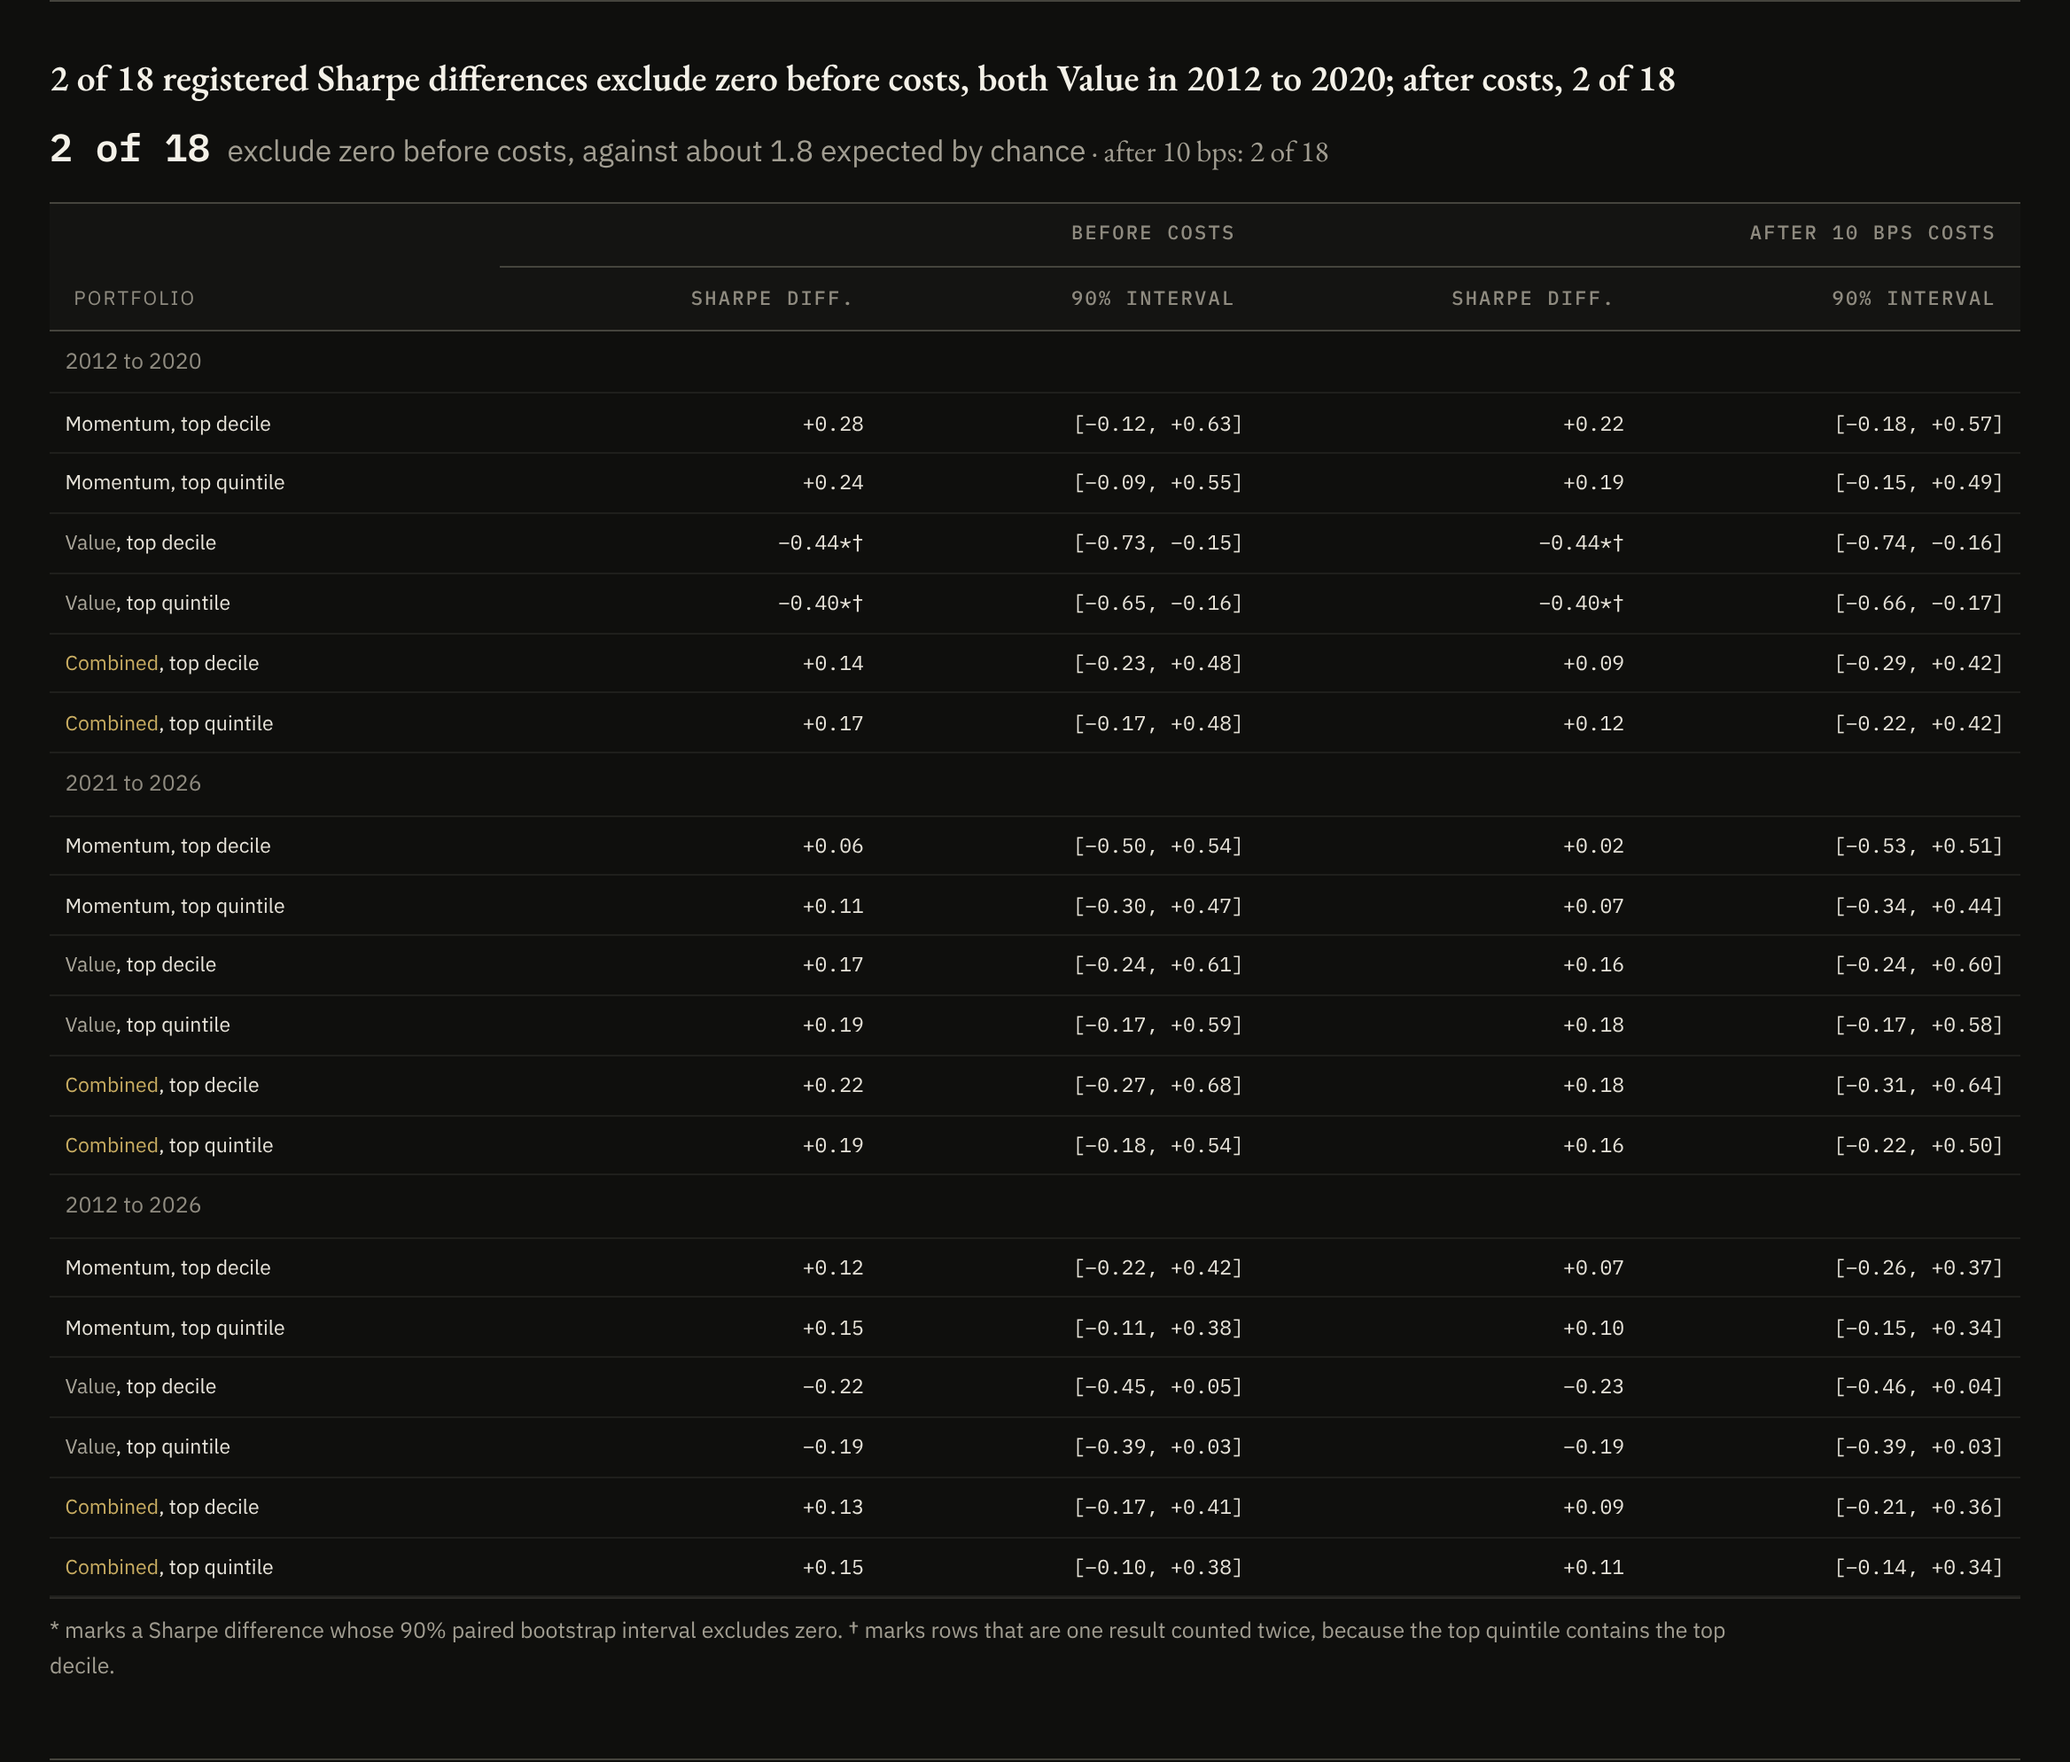
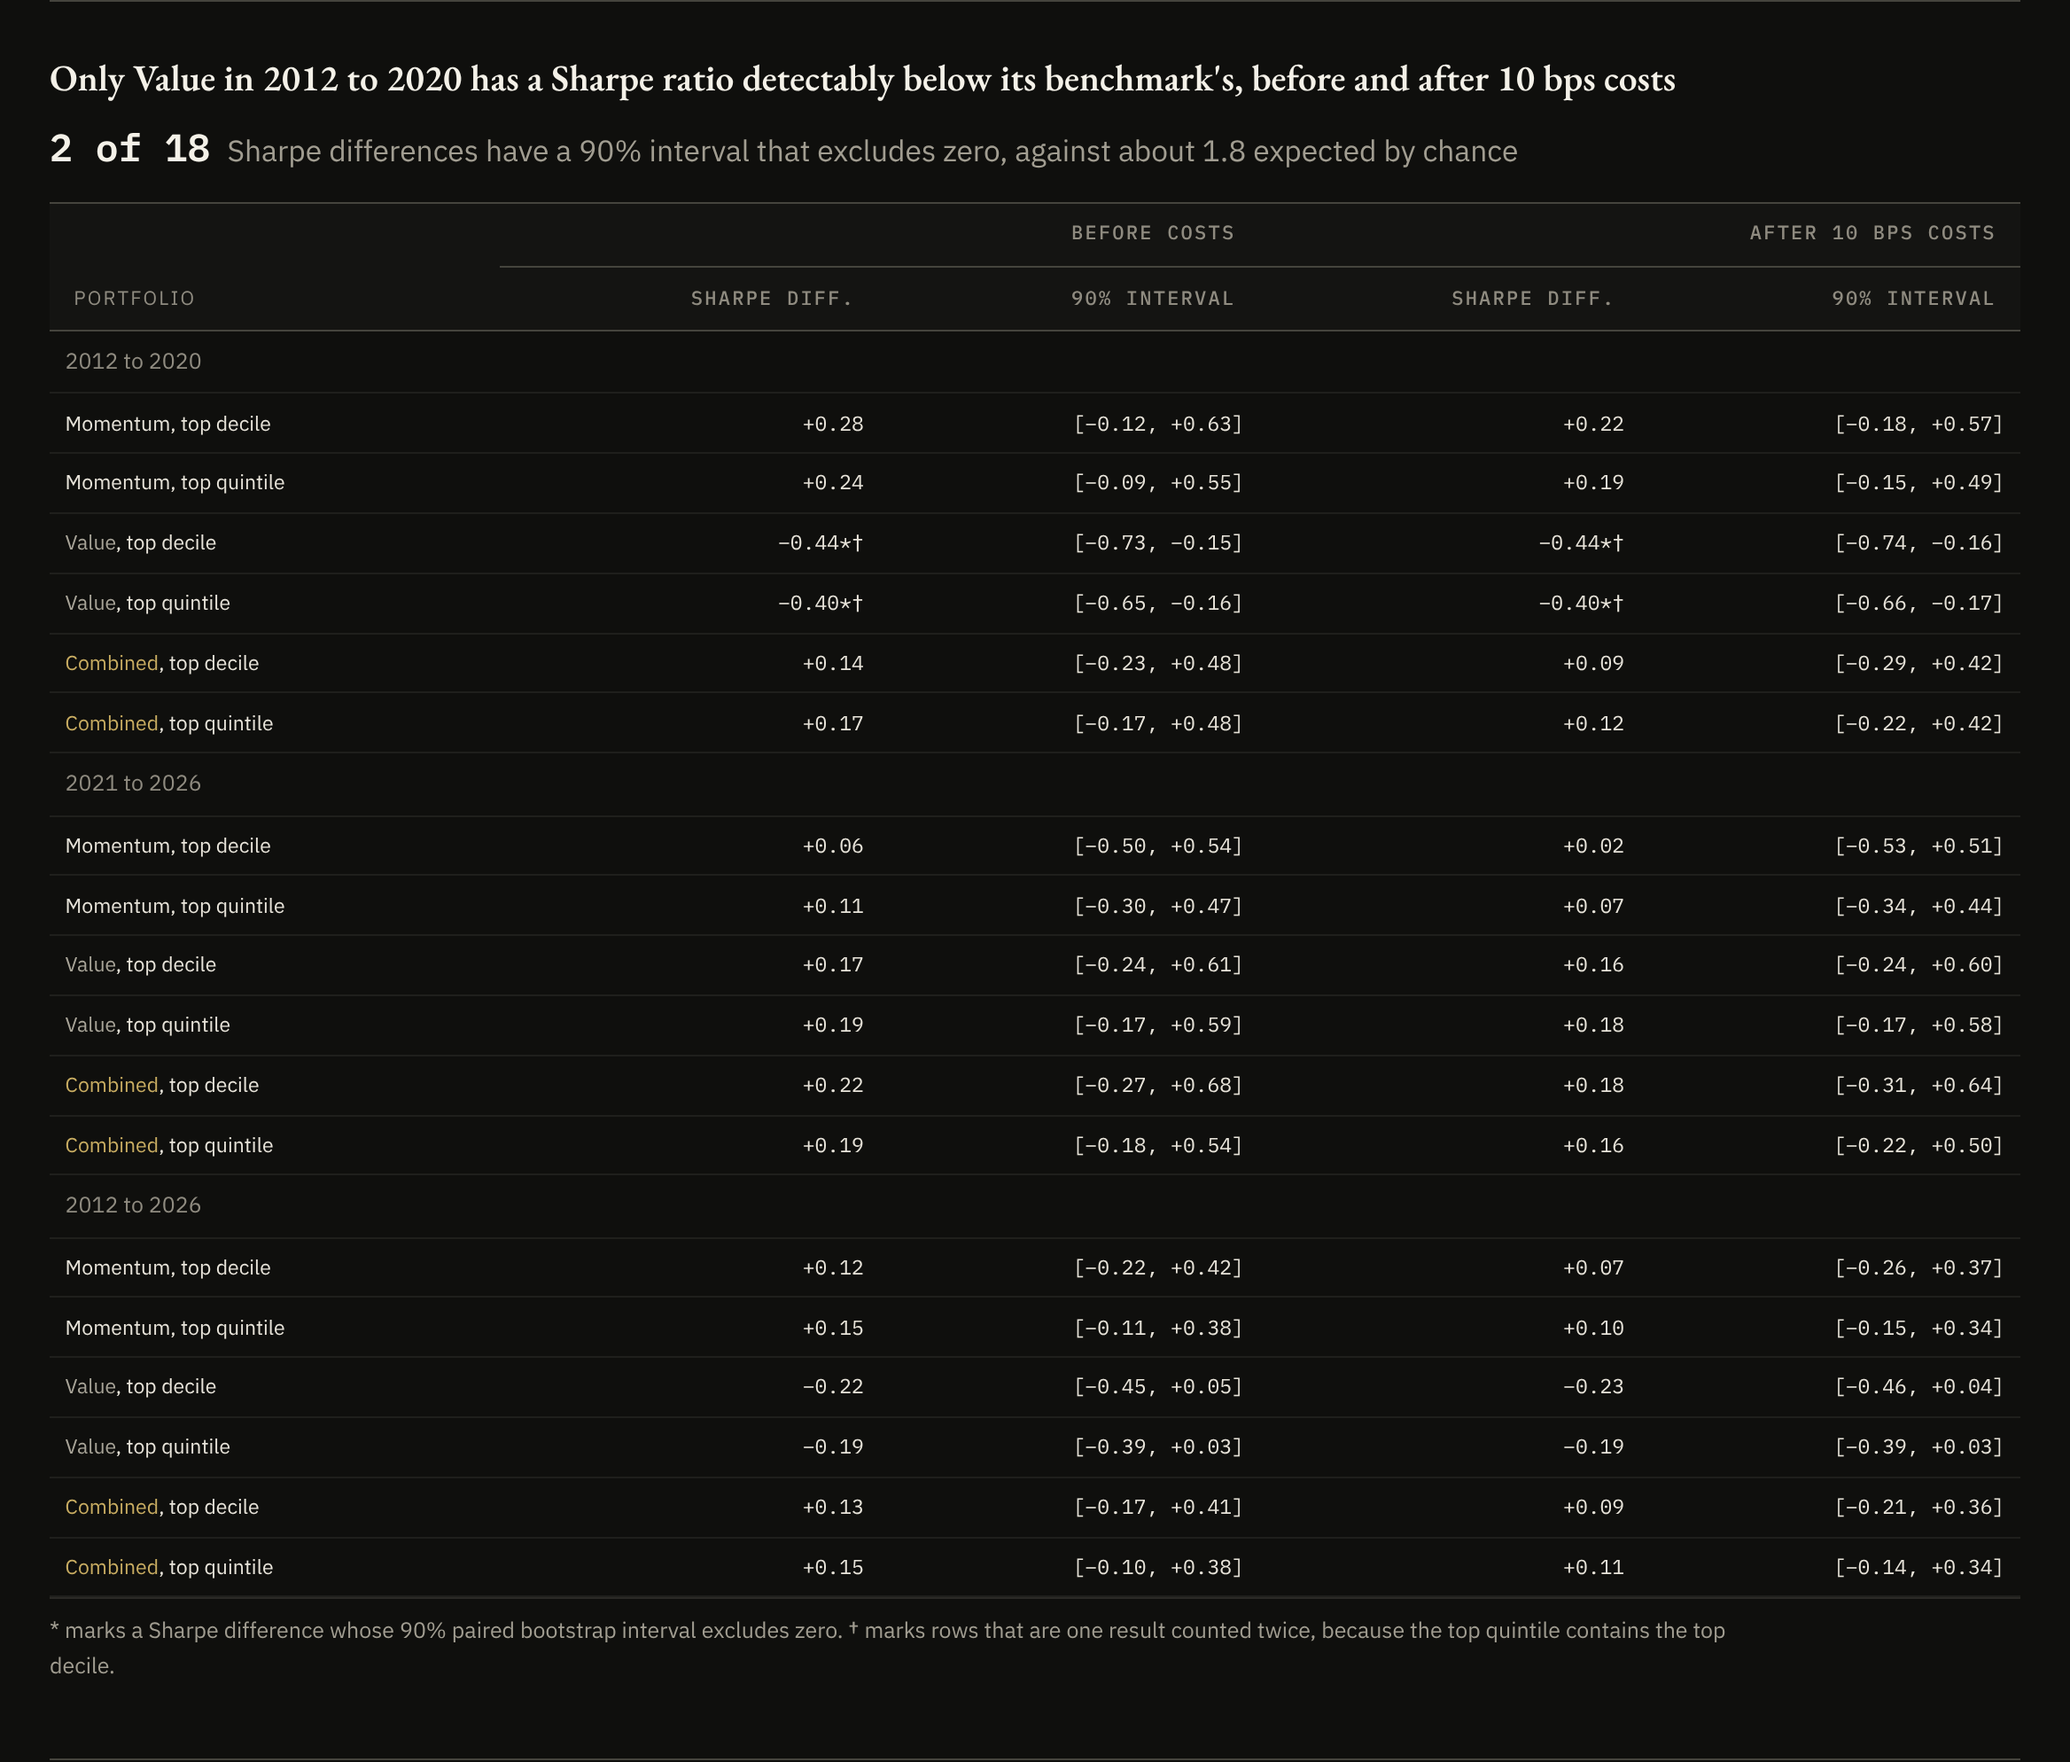
Dashboard: clearer Sharpe panel title and count line; plainer panel wording
Portfolios title now states who, direction and cost robustness; count line
defines "excludes zero". Rewrote the costs caption, Signals forest titles,
the Summary ledger label and the Power heading. Image 03 recaptured.

Claude-Session: https://claude.ai/code/session_011fgVJr68gJNNcQ627Q91RH

Changed region(s): [[0.0312, 0.0312, 0.8125, 0.0936]]

diff --git a/portfolios.html b/portfolios.html
@@ -11,8 +11,8 @@
 <meta name="color-scheme" content="dark">
 <link rel="icon" type="image/svg+xml" href="assets/favicon.svg">
 <title>Portfolios | Equity Factor Research</title>
-<script src="assets/theme.js?v=20"></script>
-<link rel="stylesheet" href="assets/styles.css?v=20">
+<script src="assets/theme.js?v=22"></script>
+<link rel="stylesheet" href="assets/styles.css?v=22">
 </head>
 <body>
 <div id="chrome"></div>
@@ -89,7 +89,7 @@
   <div class="tabpane" id="pane-returns" hidden>
   <div class="panel" data-stamp="sensitivity" data-src="results/universe_study_portfolio_summary.csv">
     <h2 id="costTitle">Trading costs</h2>
-    <p class="caption" style="margin-top:0;margin-bottom:0.75rem;">Shows all three cost treatments for the selected signal and size. It does not follow the costs button. Net returns deduct a one-way cost of 10 basis points, charged on both the selling and the buying leg of each month's turnover. Two turnover bases are shown: existing positions, and positions carried with price drift.</p>
+    <p class="caption" style="margin-top:0;margin-bottom:0.75rem;">This table shows all three cost treatments for the selected signal and size, whatever the costs button is set to. Returns after costs deduct 10 basis points on each trade, buying or selling, applied to each month's turnover. Two turnover bases are shown: existing positions, and positions carried with price drift.</p>
     <div class="timeline-table-wrap" style="max-height:none;">
       <table class="timeline-table perf-table">
         <thead><tr><th>Period</th><th>Costs</th><th class="num">Total return</th><th class="num">Ann. return</th><th class="num">Sharpe</th><th class="num">Turnover</th><th class="num">Sharpe diff, 90% CI</th></tr></thead>
@@ -153,7 +153,7 @@
 <script src="assets/universe_controls_data.js"></script>
 <script src="assets/universe_factor4_data.js"></script>
 <script src="assets/meta_data.js"></script>
-<script src="assets/dashboard.js?v=20"></script>
+<script src="assets/dashboard.js?v=22"></script>
 <script>
 renderChrome("portfolios.html", "Equal weight &middot; rebalanced monthly &middot; 10 bps one-way costs &middot; benchmark: equal-weight average of usable names");
 
@@ -181,9 +181,16 @@ function drawLead() {
   });
   document.getElementById("leadBody").innerHTML = html;
   const who = [...dup].length ? hitG[0].sig + " in " + hitG[0].p.label : "";
-  document.getElementById("leadTitle").textContent = hitG.length === 0 ? "No registered Sharpe difference has a 90% interval that excludes zero before costs"
-    : hitG.length + " of " + cells.length + " registered Sharpe differences exclude zero before costs" + (dup.size === 1 && hitG.length > 1 ? ", both " + who : "") + "; after costs, " + hitN.length + " of " + cells.length;
-  document.getElementById("leadCount").innerHTML = `<b>${hitG.length} of ${cells.length}</b> exclude zero before costs, against about ${(cells.length * 0.1).toFixed(1)} expected by chance<span> &middot; after 10 bps: ${hitN.length} of ${cells.length}</span>`;
+  const k = hitG.length, n = cells.length;
+  const sameAfter = hitN.length === k && hitG.every(c => hitN.some(m => m.sig === c.sig && m.p === c.p && m.z === c.z));
+  const dir = k && hitG.every(c => c.g.diff < 0) ? "below" : k && hitG.every(c => c.g.diff > 0) ? "above" : "";
+  document.getElementById("leadTitle").textContent =
+    k === 0 && hitN.length === 0 ? "No portfolio's Sharpe ratio differs detectably from its benchmark's, before or after 10 bps costs"
+    : k === 0 ? "No Sharpe difference is detectable before costs; " + hitN.length + " of " + n + " are after 10 bps costs"
+    : (dup.size === 1 && k > 1 && sameAfter && dir) ? "Only " + who + " has a Sharpe ratio detectably " + dir + " its benchmark's, before and after 10 bps costs"
+    : k + " of " + n + " Sharpe differences are detectable before costs and " + hitN.length + " after 10 bps costs";
+  document.getElementById("leadCount").innerHTML = `<b>${k} of ${n}</b> Sharpe differences have a 90% interval that excludes zero, against about ${(n * 0.1).toFixed(1)} expected by chance` +
+    (sameAfter ? "" : `<span> &middot; ${hitN.length} of ${n} after 10 bps costs</span>`);
   document.getElementById("leadKey").textContent = "* marks a Sharpe difference whose 90% paired bootstrap interval excludes zero." + (dup.size ? " \u2020 marks rows that are one result counted twice, because the top quintile contains the top decile." : "");
   document.getElementById("leadCaption").innerHTML = "The Sharpe difference is the portfolio's Sharpe ratio minus its own benchmark's, annualised; the interval is a paired bootstrap (5,000 resamples) at the 90% level. " +
     (hitG.length && hitG.every(c => c.g.diff < 0) ? "In each of those rows the portfolio trailed its benchmark. " : "") +

diff --git a/index.html b/index.html
@@ -17,8 +17,8 @@
 <meta name="color-scheme" content="dark">
 <link rel="icon" type="image/svg+xml" href="assets/favicon.svg">
 <title>Summary | Equity Factor Research</title>
-<script src="assets/theme.js?v=20"></script>
-<link rel="stylesheet" href="assets/styles.css?v=20">
+<script src="assets/theme.js?v=22"></script>
+<link rel="stylesheet" href="assets/styles.css?v=22">
 </head>
 <body>
 <div id="chrome"></div>
@@ -85,7 +85,7 @@
     <p class="caption">Cumulative return of each top-decile portfolio divided by that of its own equal-weight benchmark, before costs, on a log scale. A line above 1.0 means the portfolio is ahead. Momentum needs 11 months of history, so it has its own benchmark; Value and Combined share one. Prices come from stocks that were in the index at some point and are still tradable today, which flatters every line; the Universe page measures how much. The Portfolios page has growth, drawdowns and costs.</p>
   </div>
 
-  <div class="section-label">Test ledger <span>how many tests were run, and how many would clear the bar by chance</span></div>
+  <div class="section-label">Test ledger <span>how many tests were run, and how many would exclude zero by chance</span></div>
   <div class="panel" data-stamp="descriptive" data-src="results/universe_study_signal_summary_*.csv; results/universe_study_portfolio_summary.csv; results/universe_study_inference_robustness.csv">
     <table class="ledger" id="ledger"></table>
     <p class="caption" id="ledgerCaption"></p>
@@ -114,7 +114,7 @@
 <script src="assets/universe_stocks_data.js"></script>
 <script src="assets/universe_sens_data.js"></script>
 <script src="assets/meta_data.js"></script>
-<script src="assets/dashboard.js?v=20"></script>
+<script src="assets/dashboard.js?v=22"></script>
 <script>
 renderChrome("index.html", "S&amp;P 500 members &middot; Jan 2012 to Aug 2026 &middot; monthly &middot; Momentum (11-month) &middot; Value (P/B) &middot; Combined");
 const X = UNIVERSE_EXTRAS;

diff --git a/method.html b/method.html
@@ -11,8 +11,8 @@
 <meta name="color-scheme" content="dark">
 <link rel="icon" type="image/svg+xml" href="assets/favicon.svg">
 <title>Method | Equity Factor Research</title>
-<script src="assets/theme.js?v=20"></script>
-<link rel="stylesheet" href="assets/styles.css?v=20">
+<script src="assets/theme.js?v=22"></script>
+<link rel="stylesheet" href="assets/styles.css?v=22">
 </head>
 <body>
 <div id="chrome"></div>
@@ -113,7 +113,7 @@
 
   <div class="tabpane" id="pane-power" hidden>
   <div class="panel" data-stamp="descriptive" data-src="results/universe_study_ic_monthly_momentum.csv; results/universe_study_ic_monthly_value_combined.csv">
-    <h2>Minimum detectable mean rank IC <span>90% two-sided interval, 80% power</span></h2>
+    <h2>Minimum detectable mean rank IC <span>10% two-sided level, 80% power</span></h2>
     <div class="legend-row" id="powerLegend"></div>
     <div style="position:relative; height:280px;"><canvas id="powerChart" role="img" aria-label="Line chart. Minimum detectable mean rank IC against months of data, for the highest and lowest standard deviation of monthly rank IC."></canvas></div>
     <p class="caption" id="powerCaption"></p>
@@ -136,7 +136,7 @@
 <script src="assets/universe_data.js"></script>
 <script src="assets/meta_data.js"></script>
 <script src="assets/universe_ledger_data.js"></script>
-<script src="assets/dashboard.js?v=20"></script>
+<script src="assets/dashboard.js?v=22"></script>
 <script>
 renderChrome("method.html", "Pre-specified design &middot; frozen signals &middot; no tuning &middot; every variant reported");
 document.getElementById("planLogLine").textContent = planLogSentence();

diff --git a/signals.html b/signals.html
@@ -11,8 +11,8 @@
 <meta name="color-scheme" content="dark">
 <link rel="icon" type="image/svg+xml" href="assets/favicon.svg">
 <title>Signals | Equity Factor Research</title>
-<script src="assets/theme.js?v=20"></script>
-<link rel="stylesheet" href="assets/styles.css?v=20">
+<script src="assets/theme.js?v=22"></script>
+<link rel="stylesheet" href="assets/styles.css?v=22">
 </head>
 <body>
 <div id="chrome"></div>
@@ -123,7 +123,7 @@
 <script src="assets/universe_extras_data.js"></script>
 <script src="assets/universe_controls_data.js"></script>
 <script src="assets/meta_data.js"></script>
-<script src="assets/dashboard.js?v=20"></script>
+<script src="assets/dashboard.js?v=22"></script>
 <script>
 renderChrome("signals.html", "Rank IC &middot; quintile spread &middot; Fama-MacBeth &middot; 90% bootstrap intervals (5,000 resamples)");
 const S = UNIVERSE_SENS;
@@ -172,7 +172,7 @@ function drawSignalForest() {
     if (r) rows.push({ label: sig + " · " + p.label, mean: r.mean, lo: r.ci_90_lower, hi: r.ci_90_upper, color: sig, group: sig, excl: r.excludes_zero });
   }));
   const n = rows.filter(r => r.excl).length;
-  document.getElementById("forestTitle").textContent = t.label + ": " + (n === 0 ? "no interval excludes zero" : n + " of " + rows.length + " intervals exclude zero");
+  document.getElementById("forestTitle").textContent = t.label + ": " + (n === 0 ? "all " + rows.length + " intervals include zero" : n + " of " + rows.length + " intervals exclude zero");
   forest("signalForest", rows, t.fmt, null);
   document.getElementById("signalCaption").textContent = t.text.replace("; none do.", n === 0 ? "; none do." : ".");
 }

diff --git a/universe.html b/universe.html
@@ -11,8 +11,8 @@
 <meta name="color-scheme" content="dark">
 <link rel="icon" type="image/svg+xml" href="assets/favicon.svg">
 <title>Universe | Equity Factor Research</title>
-<script src="assets/theme.js?v=20"></script>
-<link rel="stylesheet" href="assets/styles.css?v=20">
+<script src="assets/theme.js?v=22"></script>
+<link rel="stylesheet" href="assets/styles.css?v=22">
 </head>
 <body>
 <div id="chrome"></div>
@@ -178,7 +178,7 @@
 <script src="assets/universe_stocks_data.js"></script>
 <script src="assets/universe_holdings_data.js"></script>
 <script src="assets/meta_data.js"></script>
-<script src="assets/dashboard.js?v=20"></script>
+<script src="assets/dashboard.js?v=22"></script>
 <script>
 renderChrome("universe.html", "Free data &middot; survivor-biased &middot; top-decile portfolios, equal weight, rebalanced monthly &middot; every ticker that was in the index");
 const H = UNIVERSE_HOLDINGS;
